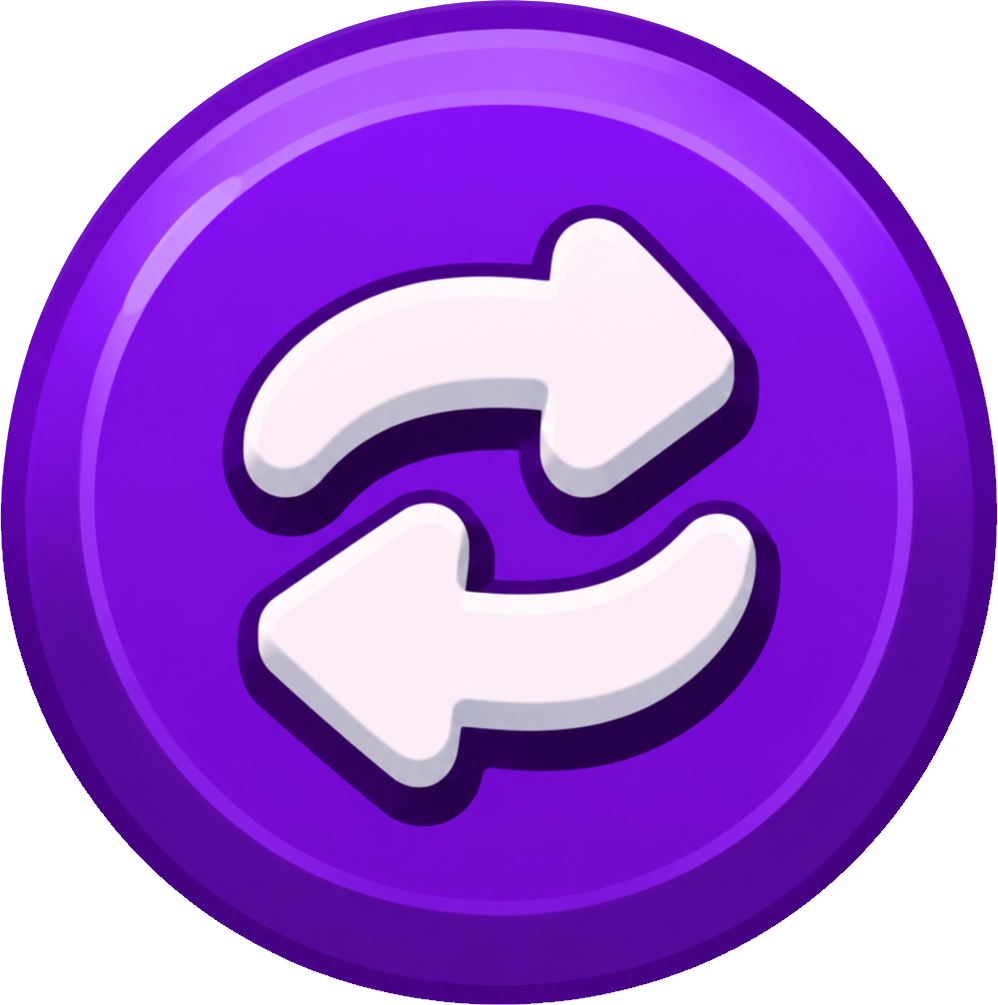
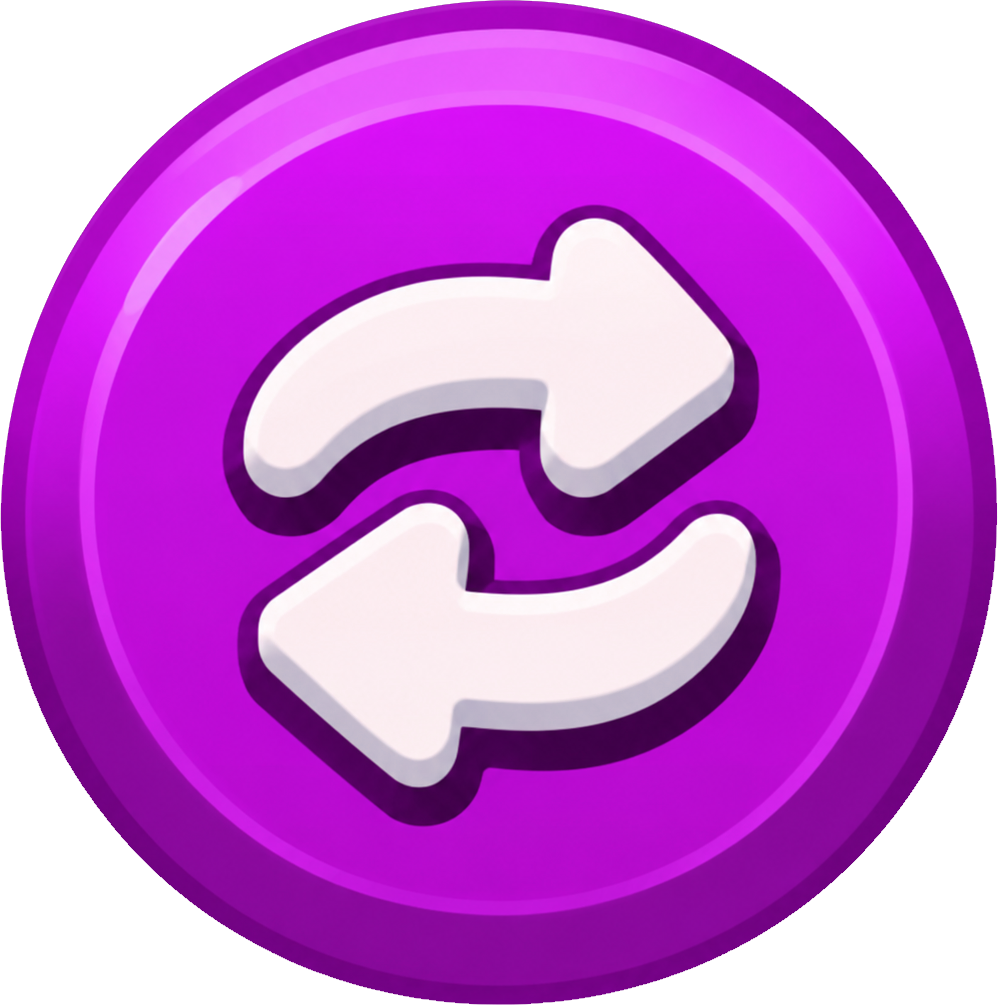
Update general style

diff --git a/lib/popups/continue.dart b/lib/popups/continue.dart
@@ -136,16 +136,16 @@ class _ContinuePopupState extends State<ContinuePopup>
                                             children: [
                                               const Positioned.fill(
                                                 child: PopupBackground(
-                                                  offset: Offset(0, -12),
+                                                  offset: Offset(0, -20),
                                                   tint: _shade,
                                                 ),
                                               ),
                                               Padding(
                                                 padding:
                                                     const EdgeInsets.fromLTRB(
-                                                      20,
+                                                      32,
                                                       12,
-                                                      20,
+                                                      32,
                                                       20,
                                                     ),
                                                 child: Column(
@@ -175,7 +175,7 @@ class _ContinuePopupState extends State<ContinuePopup>
                                                     const SizedBox(height: 6),
                                                     _StickerLabel(
                                                       text:
-                                                          'Add ${widget.balls} balls to continue!',
+                                                          'Add ${widget.balls} balls to\ncontinue!',
                                                       depthColor: const Color(
                                                         0xFF212121,
                                                       ),

diff --git a/lib/popups/return.dart b/lib/popups/return.dart
@@ -74,9 +74,9 @@ class _ReturnPopupState extends State<ReturnPopup>
                                 child: Container(
                                   width: double.infinity,
                                   padding: const EdgeInsets.fromLTRB(
-                                    24,
+                                    32,
                                     0,
-                                    24,
+                                    32,
                                     24,
                                   ),
                                   decoration: PopupShade.panel(color: _shade),
